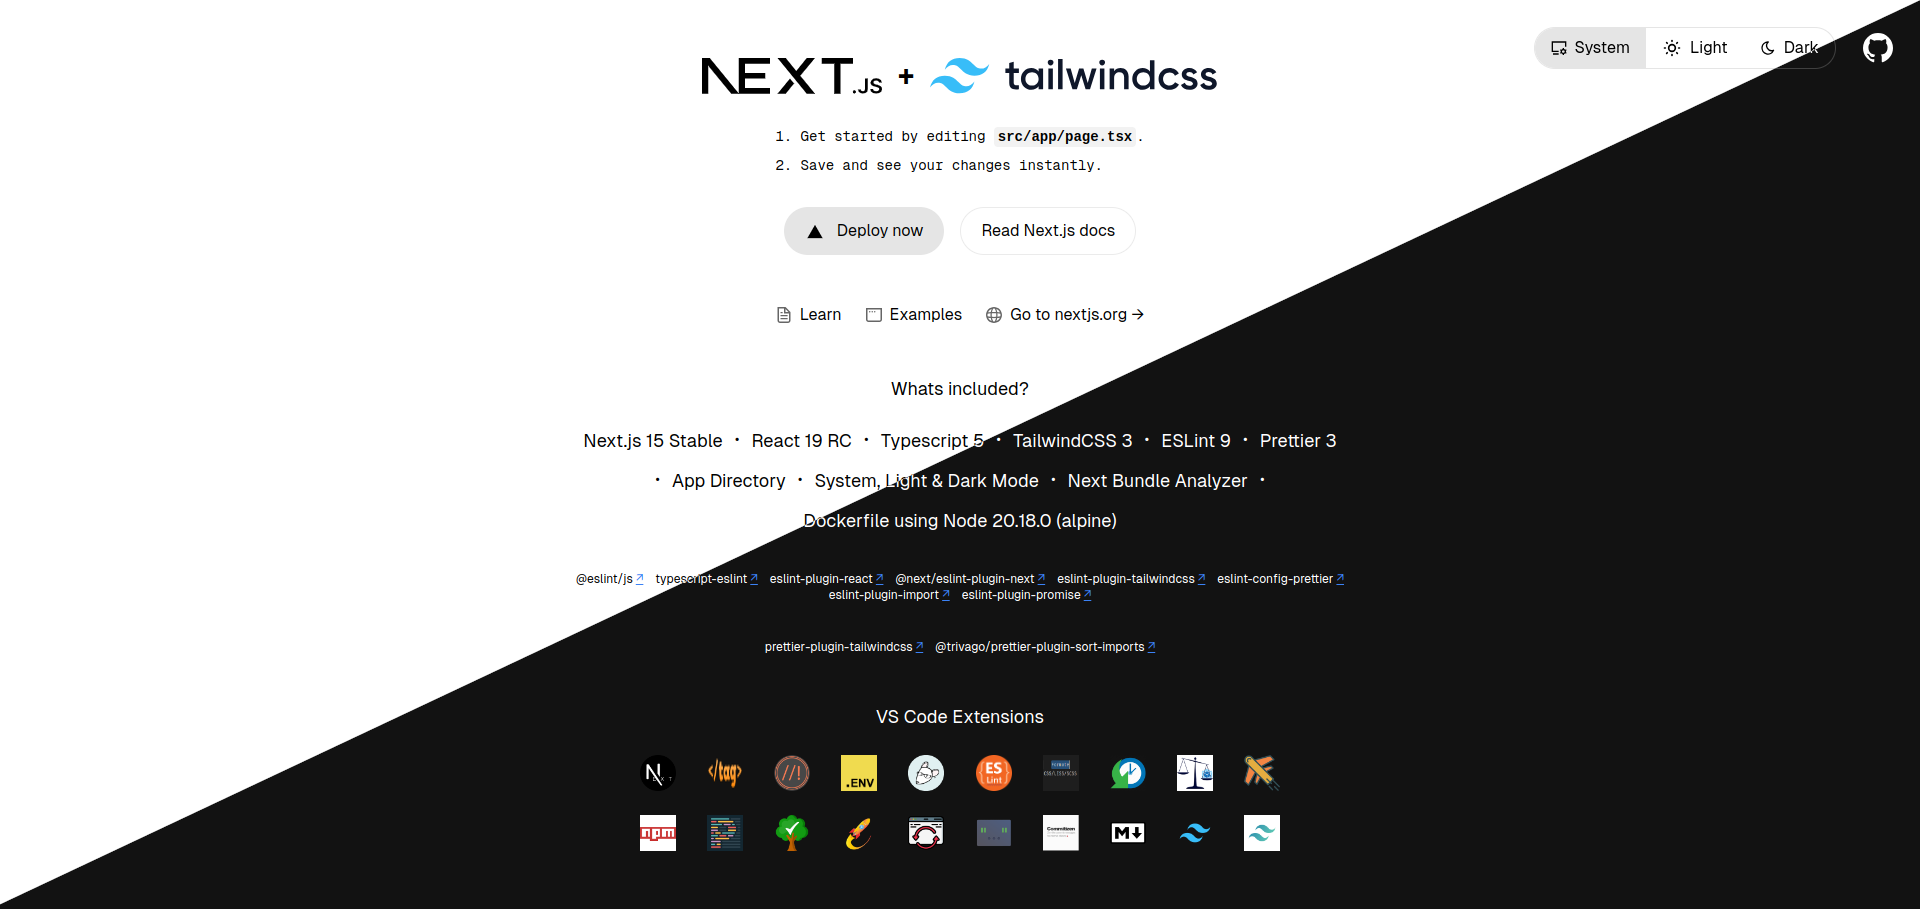
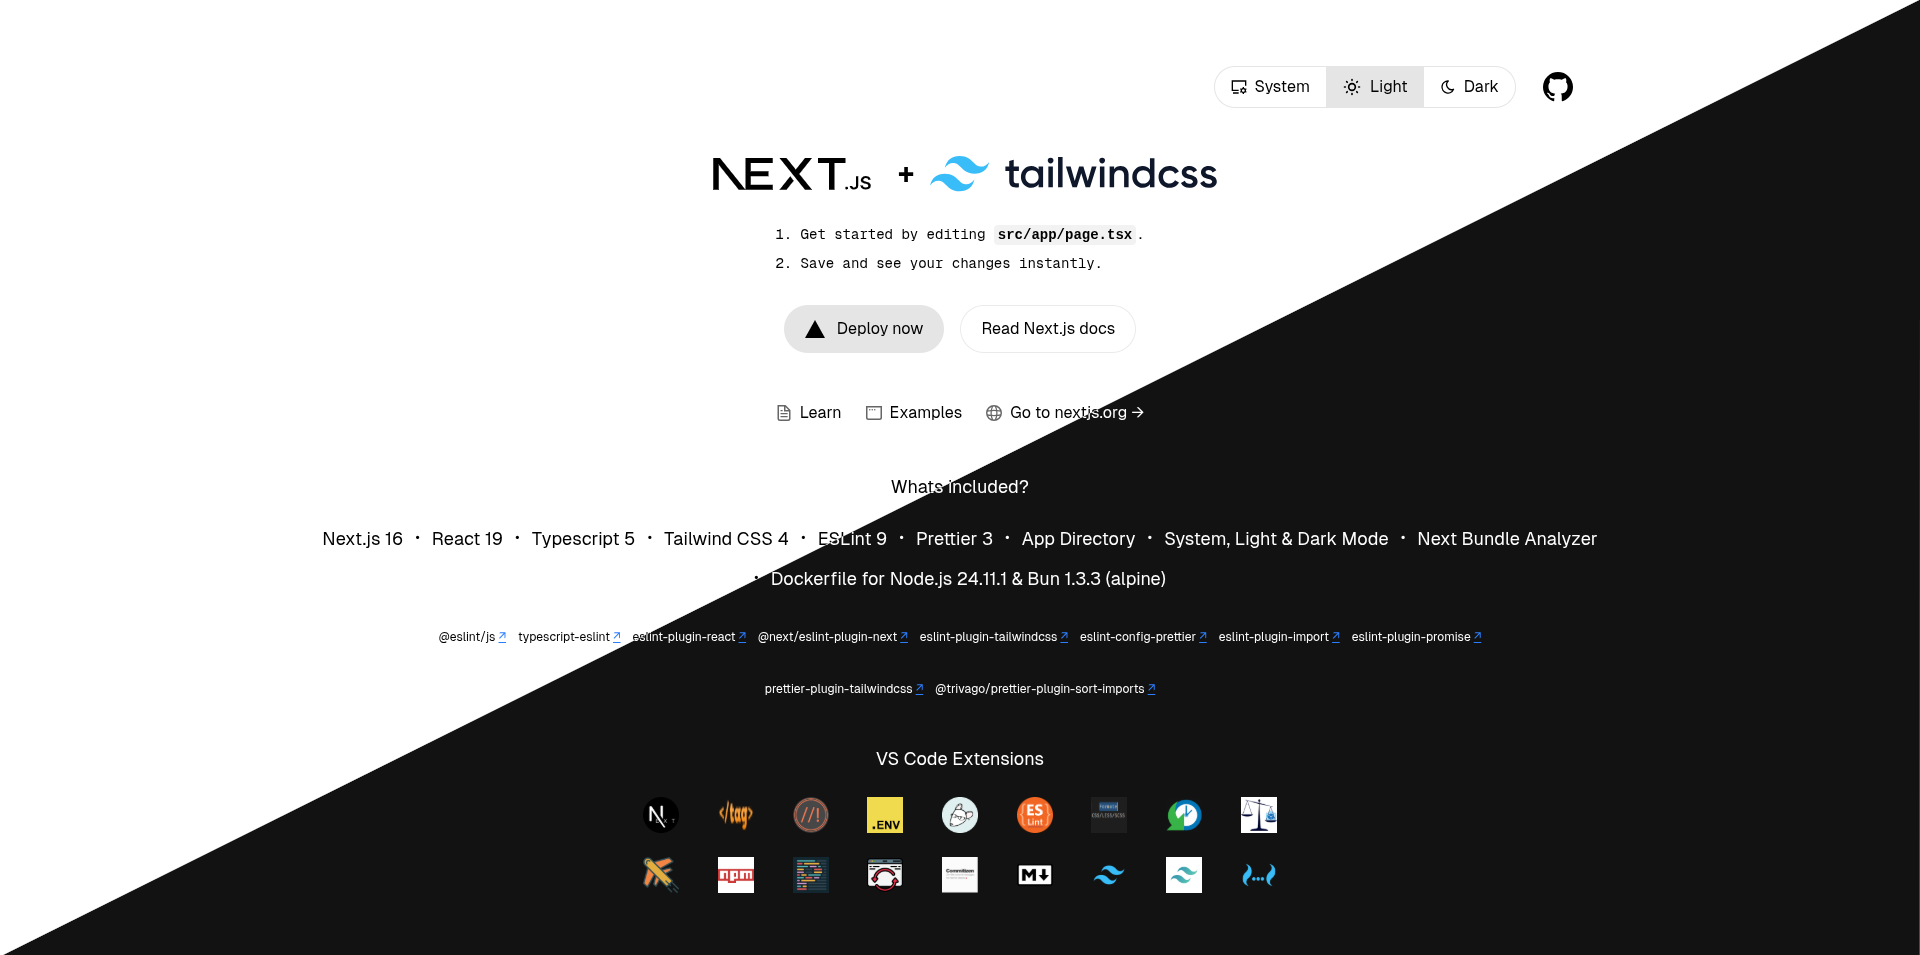
chore: update dependencies and devDependencies in package.json
- Bump Next.js version from 16.0.3 to 16.0.6
- Update @next/bundle-analyzer and @next/eslint-plugin-next to 16.0.6
- Upgrade @types/react from 19.2.5 to 19.2.7
- Update eslint-config-next from 16.0.3 to 16.0.6
- Upgrade prettier from 3.6.2 to 3.7.3
- Update prettier-plugin-tailwindcss from 0.7.1 to 0.7.2
- Upgrade typescript-eslint from 8.46.4 to 8.48.0

chore: update Dockerfile version in SetupDetails.tsx

- Change Bun version from 1.3.2 to 1.3.3 in SetupDetails.tsx

fix: update screenshot.png

diff --git a/src/app/(delete-this-and-modify-page.tsx)/SetupDetails.tsx b/src/app/(delete-this-and-modify-page.tsx)/SetupDetails.tsx
@@ -29,7 +29,7 @@ const FEATURES: Feature[] = [
     { name: 'App Directory' },
     { name: 'System, Light & Dark Mode' },
     { name: 'Next Bundle Analyzer' },
-    { name: 'Dockerfile for Node.js 24.11.1 & Bun 1.3.2 (alpine)' }
+    { name: 'Dockerfile for Node.js 24.11.1 & Bun 1.3.3 (alpine)' }
 ];
 
 const ESLINT_PLUGINS: Plugin[] = [

diff --git a/README.md b/README.md
@@ -22,7 +22,7 @@ Welcome to the **Next.js 16 Starter** repository! This starter template is built
 - **System, Light & Dark Mode**
 - **Next.js Bundle Analyzer**
 - **Dockerfile** with Node.js 24.11.1 (Alpine)
-- **Dockerfile.bun** with Bun 1.3.2 (Alpine)
+- **Dockerfile.bun** with Bun 1.3.3 (Alpine)
 
 ### 🛠 ESLint Plugins
 
@@ -66,7 +66,7 @@ To enhance development experience, install the following VS Code extensions:
 
 ### Prerequisites
 
-- **Bun**: Version 1.3.2 or higher OR
+- **Bun**: Version 1.3.3 or higher OR
 - **Node.js**: Version 20.18.0 or higher
 - **Docker**: For containerized deployment (optional but recommended)
 
